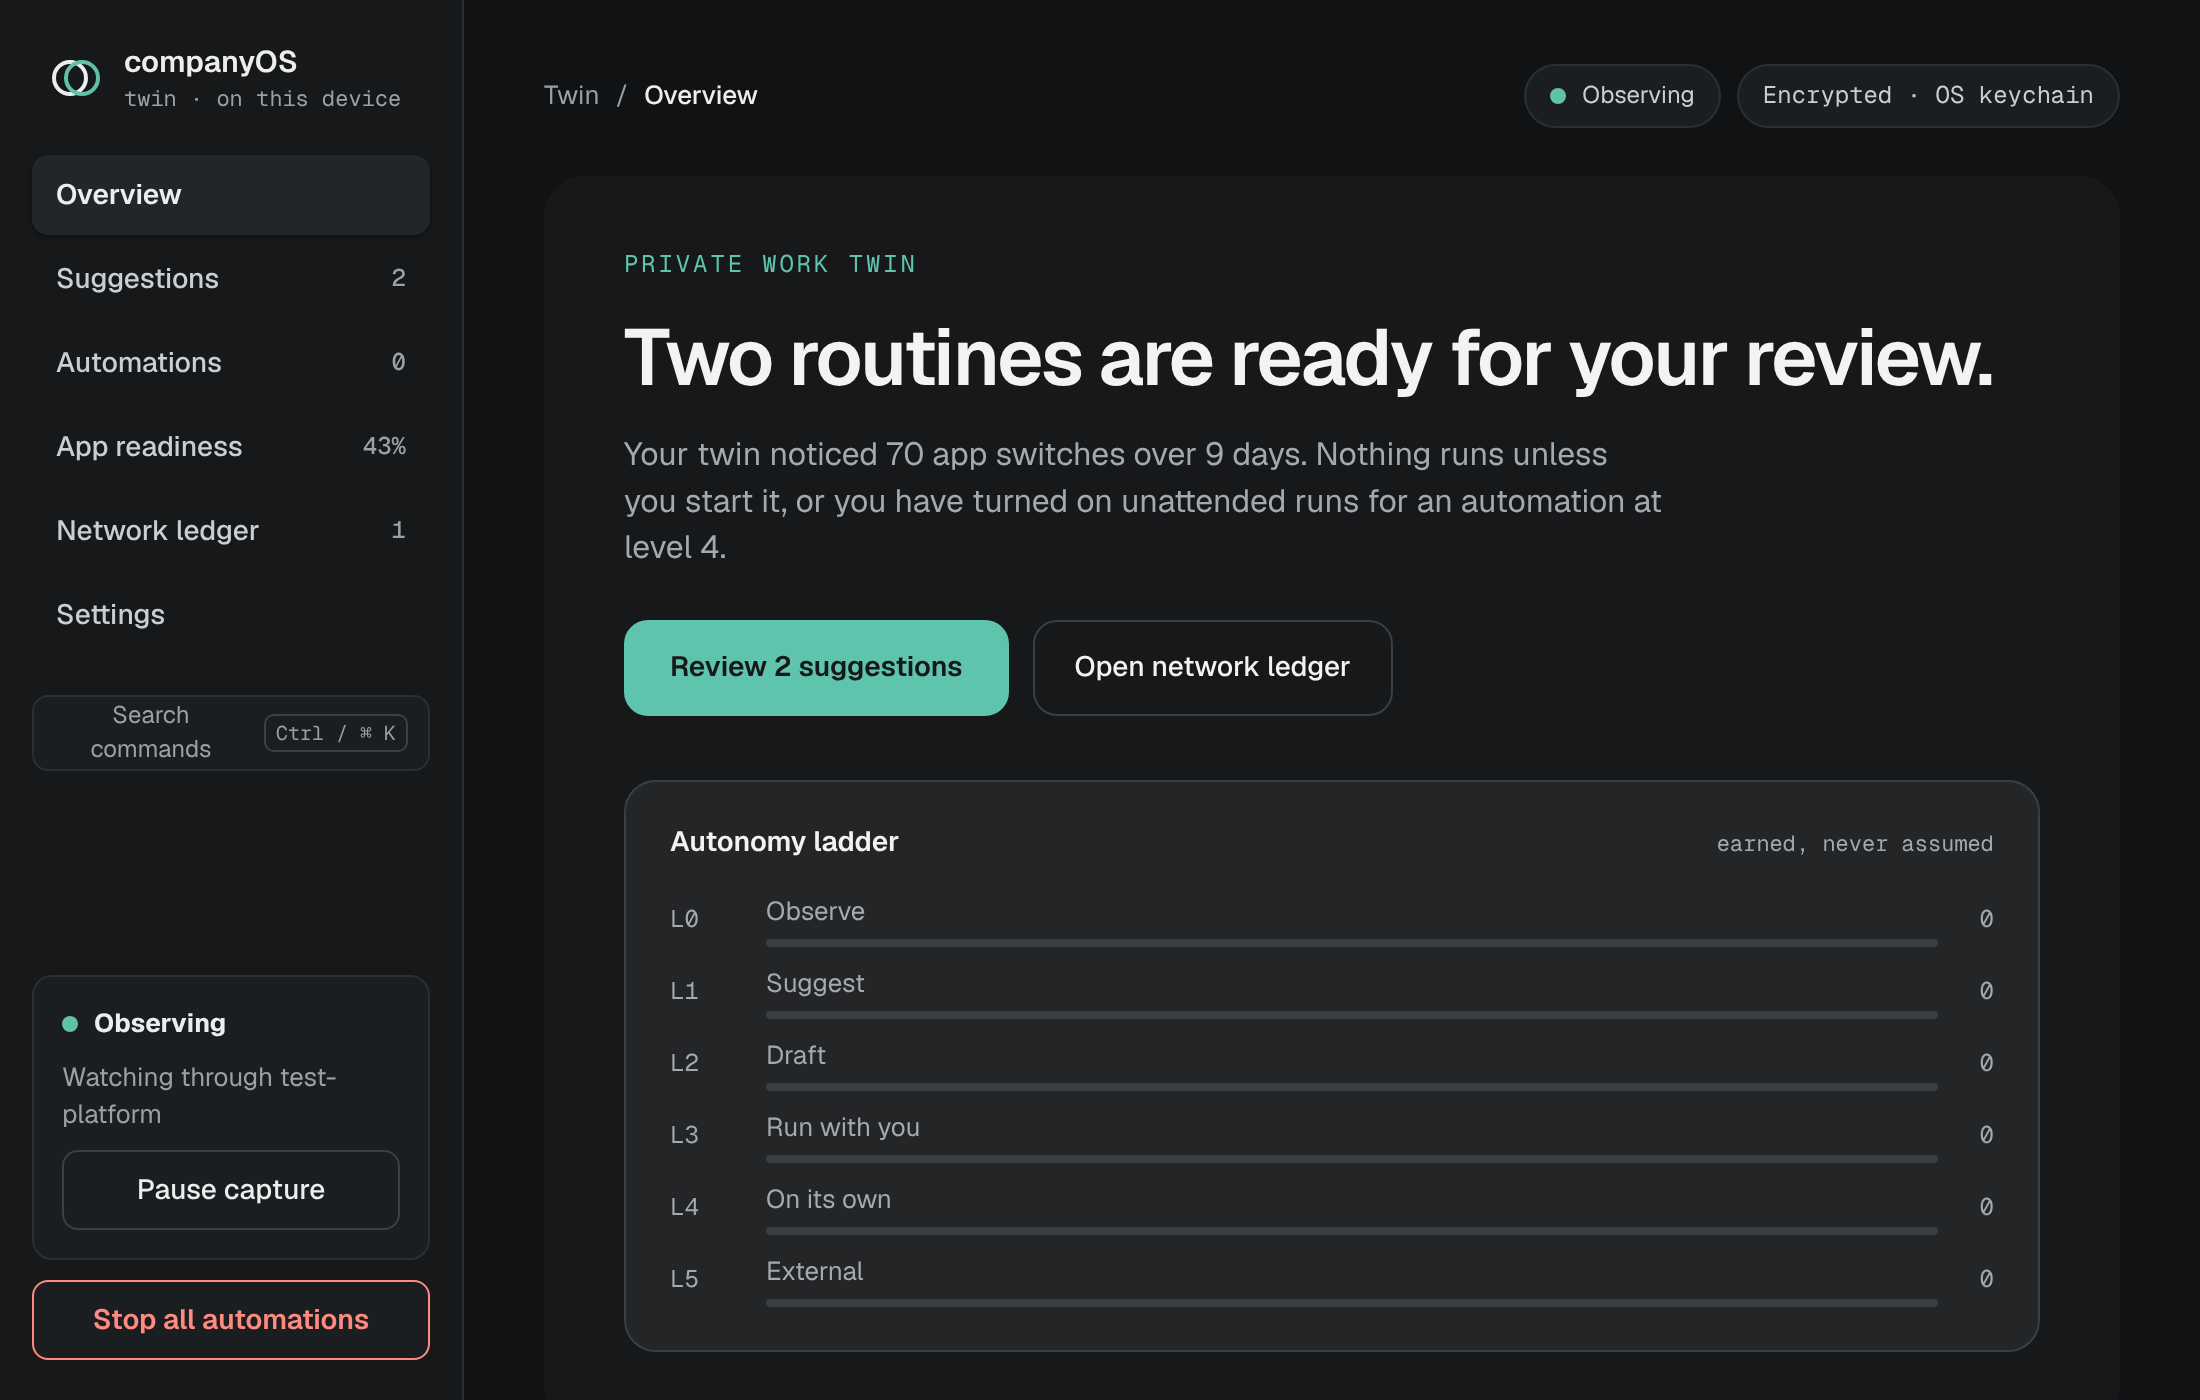
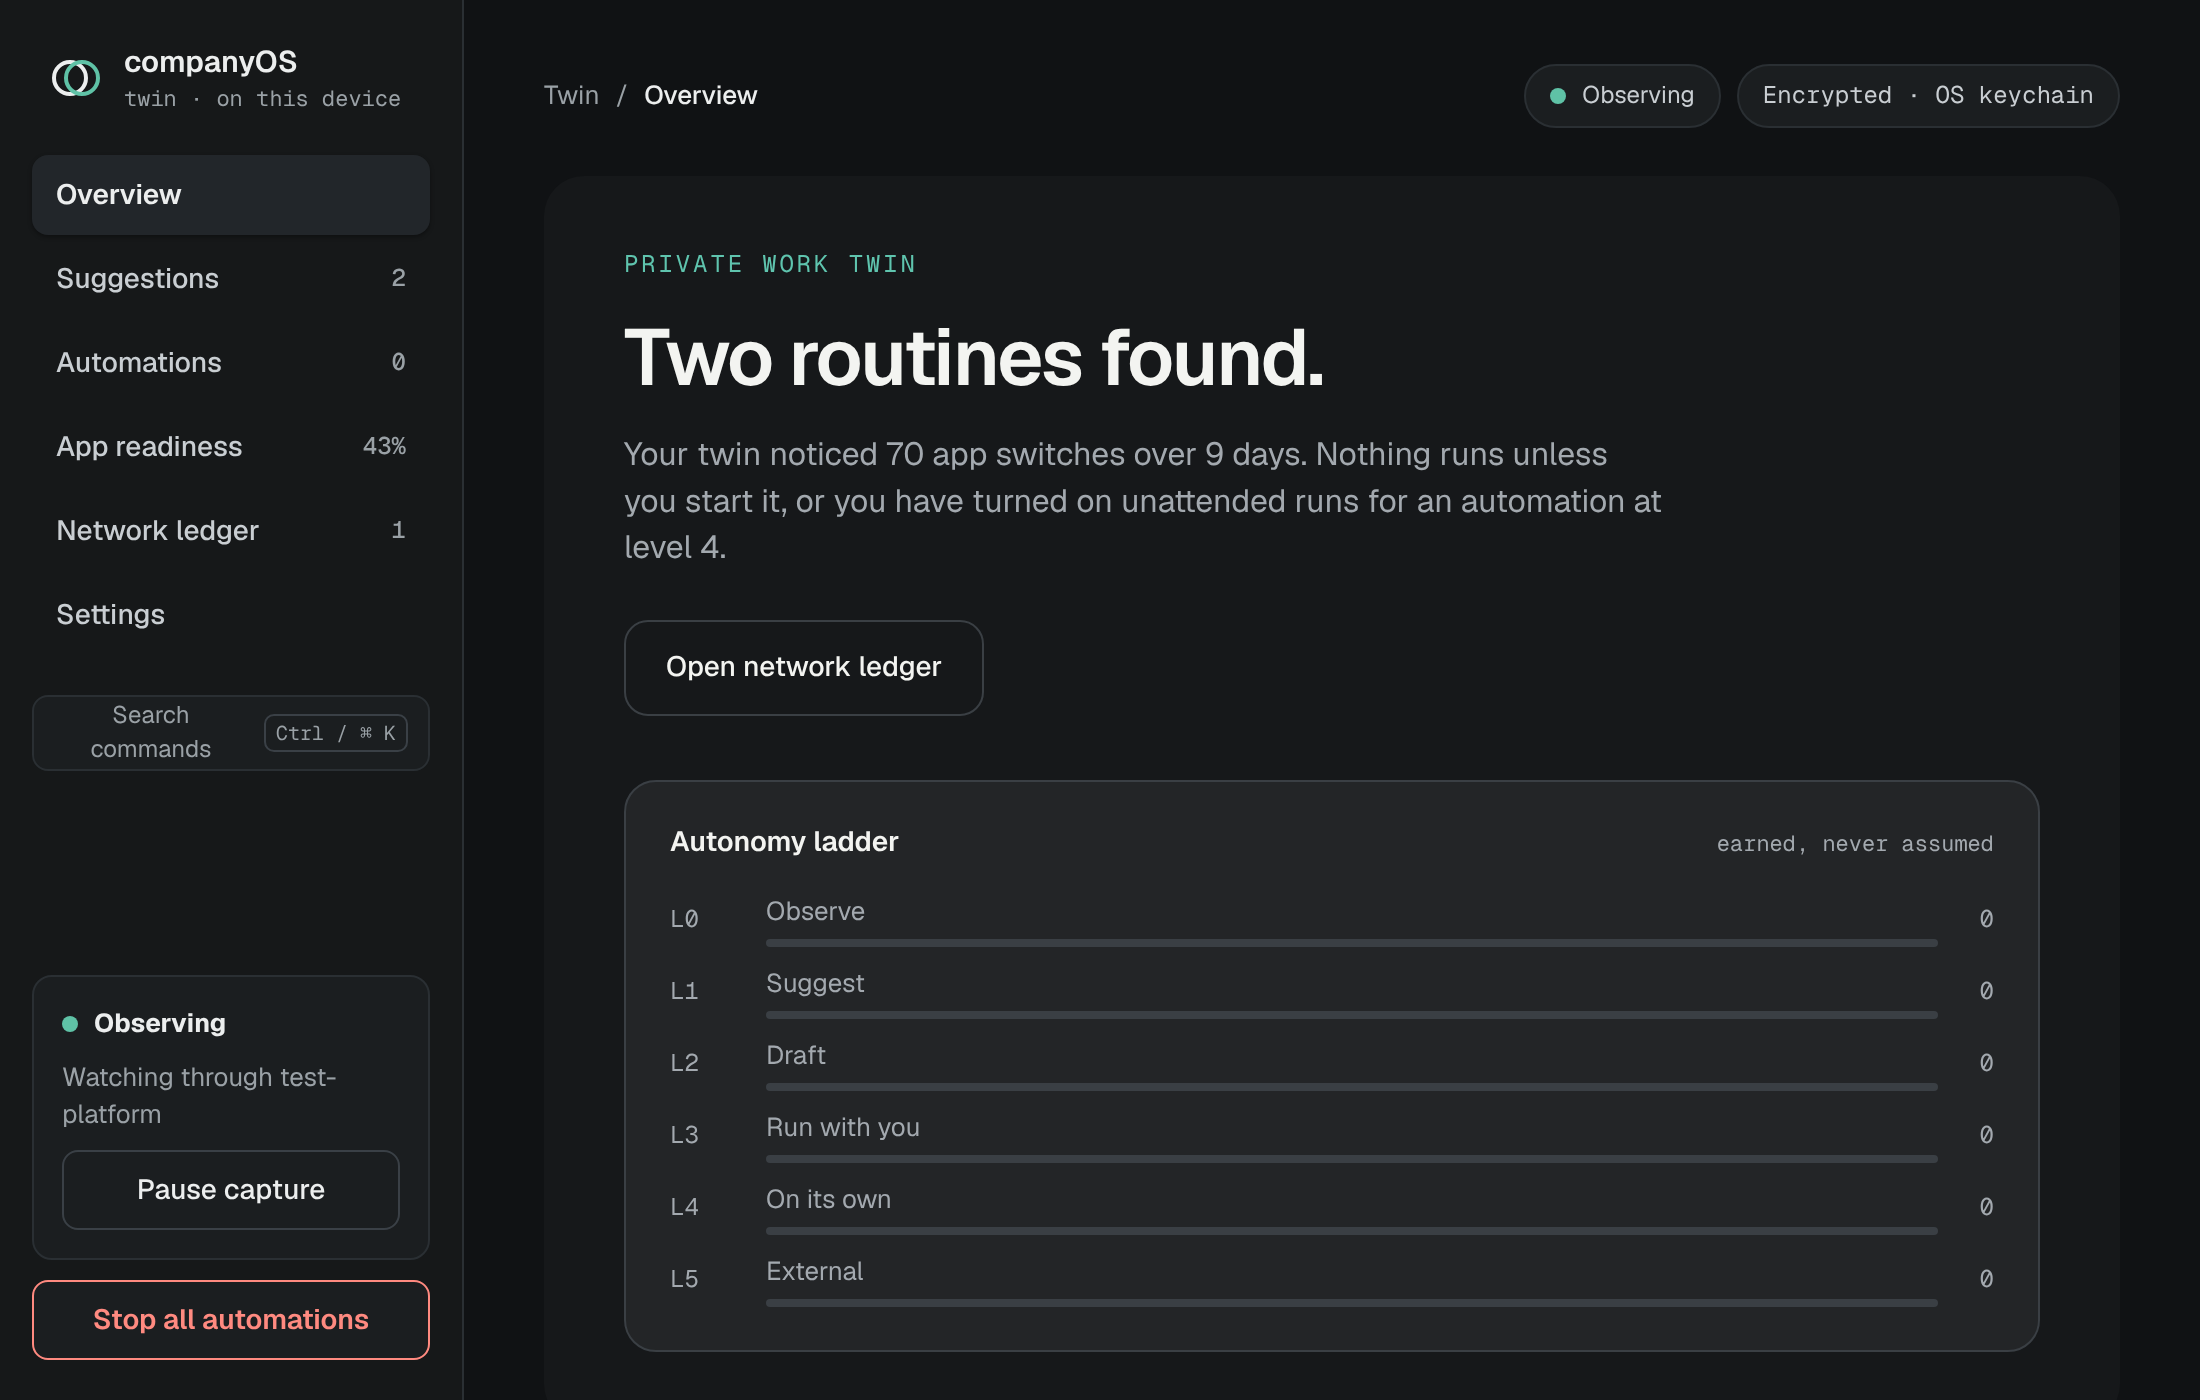
Keep the overview to statistics and remove the review actions
The overview no longer lists suggestions to accept or dismiss, and it
has no review buttons or review tags. The hero title now counts the
routines found ("Two routines found."). The stat tile that said "Waiting
for you" is now "Pending", without a tag. The learning steps say
"Decide" where they said "Review", and the strong-pattern note no longer
says "offered for review".

The overview keeps the statistic tiles, the autonomy ladder, the
automations list, the weekly rhythm, apps you use and the device panel.
Suggestions still accept and dismiss on their own page, so nothing is
lost. Nav still shows the suggestion count.

Removed with the list: the waiting panel, its routine cards and the app
chain, and the "Review suggestions" button on the empty automations
card. Model helpers the overview no longer calls (routineApps,
routineEvidence, lastSeenLabel, hoursBack) remain, with their tests.

Screenshots of the overview at 1100 by 700 are refreshed in
docs/screenshots/13-inch and on the docs site.

Claude-Session: https://claude.ai/code/session_019o9sMo7fg76ys9pWXQjmcJ

Changed region(s): [[0.2782, 0.43, 0.4636, 0.5221], [0.4945, 0.215, 0.8964, 0.2764], [0.4945, 0.4607, 0.6182, 0.4914]]

diff --git a/apps/desktop/src/renderer/views/overview.ts b/apps/desktop/src/renderer/views/overview.ts
@@ -1,26 +1,23 @@
-import type { AutomationView, DraftStep, SuggestionView, TwinStatus } from '@companyos/twin-core';
+import type { AutomationView, TwinStatus } from '@companyos/twin-core';
 import { h, type Child } from '../dom.js';
 import { button, emptyState, levelMeter } from '../components/ui.js';
 import { formatBytes, formatRate, percent, plural, titleCase, titleCaseSequence } from '../format.js';
 import { appsSummary, captureTitle, LEVEL_NAMES, levelLabel } from '../labels.js';
 import {
+  foundTitle,
   heroLede,
   ladderCounts,
-  lastSeenLabel,
   networkCallsThisWeek,
-  readyTitle,
   RHYTHM_DAYS,
   RHYTHM_HOURS,
   rhythmLevels,
-  routineApps,
-  routineEvidence,
 } from '../overview-model.js';
-import { call, go, pending, state } from '../store.js';
+import { call, go, state } from '../store.js';
 
-const APP_PATTERN_REVIEW_THRESHOLD = 0.8;
+const APP_PATTERN_STRONG_THRESHOLD = 0.8;
 
 export function overviewView(status: TwinStatus): HTMLElement {
-  const { stats, automations, suggestions, network } = status;
+  const { stats, automations, network } = status;
   return h(
     'div',
     { class: 'ov-page', 'data-testid': 'view-overview' },
@@ -34,8 +31,7 @@ export function overviewView(status: TwinStatus): HTMLElement {
         'div',
         { class: 'ov-main' },
         stats.routinesLearned === 0 ? learningPanel(status) : undefined,
-        waitingPanel(suggestions),
-        routinesPanel(automations, suggestions.length),
+        routinesPanel(automations),
         usagePanel(status.usage),
       ),
       h(
@@ -75,14 +71,6 @@ function overviewTop(status: TwinStatus): HTMLElement {
 }
 
 function overviewHero(status: TwinStatus): HTMLElement {
-  const { suggestions, automations } = status;
-  const primary =
-    suggestions.length > 0
-      ? button(`Review ${plural(suggestions.length, 'suggestion')}`, { variant: 'primary', onClick: () => go('#/suggestions') }, 'ov-cta')
-      : automations.length > 0
-        ? button('View automations', { variant: 'primary', onClick: () => go('#/automations') }, 'ov-cta')
-        : undefined;
-
   return h(
     'header',
     { class: 'ov-hero' },
@@ -90,14 +78,13 @@ function overviewHero(status: TwinStatus): HTMLElement {
       'div',
       { class: 'ov-hero-copy' },
       h('span', { class: 'ov-eyebrow' }, 'PRIVATE WORK TWIN'),
-      h('h1', { class: 'ov-title' }, readyTitle(suggestions.length)),
+      h('h1', { class: 'ov-title' }, foundTitle(status.suggestions.length)),
       h('p', { class: 'ov-lede' }, heroLede(status.recordedFocusEvents, status.stats.observedDays)),
       h('div', { class: 'ov-hero-actions' },
-        primary,
         button('Open network ledger', { onClick: () => go('#/ledger') }, 'ov-cta-quiet'),
       ),
     ),
-    ladderCard(automations),
+    ladderCard(status.automations),
   );
 }
 
@@ -139,12 +126,7 @@ function statsRow(status: TwinStatus): HTMLElement {
     'section',
     { class: 'ov-stats', 'data-testid': 'overview-stats', 'aria-label': 'Summary' },
     statCard({ label: 'Routines learned', value: String(stats.routinesLearned), note: 'Detected and not dismissed, or accepted' }),
-    statCard({
-      label: 'Waiting for you',
-      value: String(stats.waiting),
-      note: 'Suggestions and drafts',
-      tag: stats.waiting > 0 ? { text: 'review', review: true } : undefined,
-    }),
+    statCard({ label: 'Pending', value: String(stats.waiting), note: 'Suggestions and drafts' }),
     statCard({ label: 'Unattended ready', value: String(stats.unattendedReady), note: 'Level 4 · local and reversible', tag: { text: 'gated' } }),
   );
 }
@@ -154,7 +136,7 @@ interface StatCard {
   value: string;
   unit?: string;
   note: string;
-  tag?: { text: string; review?: boolean };
+  tag?: { text: string };
 }
 
 function statCard(card: StatCard): HTMLElement {
@@ -165,7 +147,7 @@ function statCard(card: StatCard): HTMLElement {
       'div',
       { class: 'ov-stat-head' },
       h('span', { class: 'ov-stat-label' }, card.label),
-      card.tag ? h('span', { class: card.tag.review ? 'ov-stat-tag is-review' : 'ov-stat-tag' }, card.tag.text) : undefined,
+      card.tag ? h('span', { class: 'ov-stat-tag' }, card.tag.text) : undefined,
     ),
     h(
       'div',
@@ -177,76 +159,8 @@ function statCard(card: StatCard): HTMLElement {
   );
 }
 
-function waitingPanel(suggestions: readonly SuggestionView[]): HTMLElement {
-  return h(
-    'section',
-    { class: 'ov-card', 'data-testid': 'overview-waiting', 'aria-labelledby': 'waiting-title' },
-    h(
-      'div',
-      { class: 'ov-card-head' },
-      h('h2', { class: 'ov-card-title', id: 'waiting-title' }, 'Waiting for you'),
-      h('span', { class: 'ov-card-note' }, 'Patterns your twin found. Accepting one creates a draft — it runs nothing.'),
-    ),
-    suggestions.length === 0
-      ? emptyState('Nothing to review yet.', 'The twin needs the same sequence on at least three different days to notice a routine.')
-      : h('div', { class: 'ov-routine-list' }, ...suggestions.map(routineCard)),
-  );
-}
-
-function routineCard(item: SuggestionView): HTMLElement {
-  const acceptKey = `accept:${item.routineId}`;
-  const dismissKey = `dismiss:${item.routineId}`;
-  const busy = pending(acceptKey) || pending(dismissKey);
-  return h(
-    'article',
-    { class: 'ov-routine', 'data-testid': 'overview-suggestion' },
-    h(
-      'div',
-      { class: 'ov-routine-copy' },
-      h('h3', { class: 'ov-routine-name' }, item.name),
-      h('p', { class: 'ov-routine-evidence' }, routineEvidence(item.support, item.days, item.minutesPerWeek)),
-    ),
-    appChain(item.drafted),
-    h(
-      'div',
-      { class: 'ov-routine-foot' },
-      h('span', { class: 'ov-when mono' }, lastSeenLabel(item.lastSeenAt)),
-      h('span', { class: 'ov-grow', 'aria-hidden': 'true' }),
-      button('Not useful', {
-        variant: 'ghost',
-        disabled: busy,
-        onClick: () => void call(dismissKey, twin => twin.dismissRoutine(item.routineId)),
-      }),
-      button('Accept as draft', {
-        variant: 'primary',
-        disabled: busy,
-        onClick: () => void call(acceptKey, twin => twin.acceptRoutine(item.routineId)),
-      }),
-    ),
-  );
-}
-
-function appChain(steps: readonly DraftStep[]): HTMLElement {
-  return h(
-    'div',
-    { class: 'ov-apps' },
-    ...routineApps(steps).flatMap((step, index) => [
-      index > 0 ? h('span', { class: 'ov-app-arrow', 'aria-hidden': 'true' }, '→') : undefined,
-      h(
-        'span',
-        { class: 'ov-app' },
-        h('span', { class: 'ov-app-mark', 'aria-hidden': 'true' }, step.app.charAt(0).toUpperCase()),
-        h('span', null, titleCase(step.app)),
-        step.alternatives > 0
-          ? h('span', { class: 'ov-app-more', title: `${plural(step.alternatives, 'other app')} seen here` }, `+${step.alternatives}`)
-          : undefined,
-      ),
-    ]),
-  );
-}
-
-function routinesPanel(views: readonly AutomationView[], suggestionCount: number): HTMLElement {
-  if (views.length === 0) return noAutomationsCard(suggestionCount);
+function routinesPanel(views: readonly AutomationView[]): HTMLElement {
+  if (views.length === 0) return noAutomationsCard();
   return h(
     'section',
     { class: 'ov-card', 'data-testid': 'overview-routines', 'aria-labelledby': 'routines-title' },
@@ -260,7 +174,7 @@ function routinesPanel(views: readonly AutomationView[], suggestionCount: number
   );
 }
 
-function noAutomationsCard(suggestionCount: number): HTMLElement {
+function noAutomationsCard(): HTMLElement {
   return h(
     'section',
     { class: 'ov-card ov-empty-card', 'data-testid': 'overview-routines', 'aria-labelledby': 'auto-title' },
@@ -273,7 +187,6 @@ function noAutomationsCard(suggestionCount: number): HTMLElement {
     h(
       'div',
       { class: 'ov-empty-actions' },
-      suggestionCount > 0 ? button('Review suggestions', { onClick: () => go('#/suggestions') }) : undefined,
       h('a', { class: 'ov-link', href: '#/automations' }, 'How levels work →'),
     ),
   );
@@ -364,7 +277,7 @@ function learningPanel(status: TwinStatus): HTMLElement {
       { class: 'ov-steps' },
       learningStep('01', 'Capture', captureDetail, status.capture.state === 'capturing'),
       learningStep('02', 'Repeat', 'Follow your normal app sequence', false),
-      learningStep('03', 'Review', 'You decide what becomes an automation', false),
+      learningStep('03', 'Decide', 'You decide what becomes an automation', false),
     ),
   );
 }
@@ -398,7 +311,7 @@ function usagePanel(usage: TwinStatus['usage']): HTMLElement {
           h(
             'p',
             { class: 'muted small ov-usage-note' },
-            'This repetition-based learning score is not model confidence or task accuracy. A pattern is offered for review once it repeats on at least three different days. 80% or more is marked Strong. Mail, chat and other external steps still ask; unattended runs must pass each routine\'s promotion gate.',
+            'This repetition-based learning score is not model confidence or task accuracy. A pattern is offered once it repeats on at least three different days. 80% or more is marked Strong. Mail, chat and other external steps still ask; unattended runs must pass each routine\'s promotion gate.',
           ),
         ),
   );
@@ -407,7 +320,7 @@ function usagePanel(usage: TwinStatus['usage']): HTMLElement {
 function appLearningRow(app: TwinStatus['usage'][number]): HTMLElement {
   const score = Math.round(app.learningScore * 100);
   const hasPattern = app.patternCount > 0;
-  const strongPattern = app.learningScore >= APP_PATTERN_REVIEW_THRESHOLD;
+  const strongPattern = app.learningScore >= APP_PATTERN_STRONG_THRESHOLD;
   const evidence = hasPattern
     ? `${plural(app.patternSupport, 'observation')} across ${plural(app.patternDays, 'day')} · ${plural(app.patternCount, 'pattern')}`
     : 'No repeated workflow pattern yet';

diff --git a/apps/desktop/test/overview.test.ts b/apps/desktop/test/overview.test.ts
@@ -2,30 +2,30 @@ import type { DraftStep } from '@companyos/twin-core';
 import { describe, expect, it } from 'vitest';
 import { DAY_MS, handoffStateLabel, noticedPerWeek, summarySourceLabel, titleCase, titleCaseSequence } from '../src/renderer/format';
 import {
+  foundTitle,
   heroLede,
   hoursBack,
   ladderCounts,
   lastSeenLabel,
   networkCallsThisWeek,
-  readyTitle,
   rhythmLevels,
   routineApps,
   routineEvidence,
 } from '../src/renderer/overview-model';
 
-describe('readyTitle', () => {
-  it('says no new routines are ready when there are no suggestions', () => {
-    expect(readyTitle(0)).toBe('No new routines are ready for your review.');
+describe('foundTitle', () => {
+  it('says no routines are found when there are none', () => {
+    expect(foundTitle(0)).toBe('No routines found yet.');
   });
 
   it('uses the singular for one routine', () => {
-    expect(readyTitle(1)).toBe('One routine is ready for your review.');
+    expect(foundTitle(1)).toBe('One routine found.');
   });
 
   it('spells out a small count and keeps the digits for a large one', () => {
-    expect(readyTitle(2)).toBe('Two routines are ready for your review.');
-    expect(readyTitle(3)).toBe('Three routines are ready for your review.');
-    expect(readyTitle(13)).toBe('13 routines are ready for your review.');
+    expect(foundTitle(2)).toBe('Two routines found.');
+    expect(foundTitle(3)).toBe('Three routines found.');
+    expect(foundTitle(13)).toBe('13 routines found.');
   });
 });
 

diff --git a/apps/desktop/src/renderer/overview-model.ts b/apps/desktop/src/renderer/overview-model.ts
@@ -8,12 +8,12 @@ export const RHYTHM_DAYS: readonly string[] = ['Mon', 'Tue', 'Wed', 'Thu', 'Fri'
 /** The hours the rhythm grid shows, one column each. */
 export const RHYTHM_HOURS: readonly number[] = [8, 9, 10, 11, 12, 13, 14, 15, 16, 17, 18];
 
-/** The hero title. It counts the suggestions waiting for the person's review. Drafts are counted by the waiting card. */
-export function readyTitle(waiting: number): string {
-  if (waiting <= 0) return 'No new routines are ready for your review.';
-  if (waiting === 1) return 'One routine is ready for your review.';
-  const count = waiting < COUNT_WORDS.length ? COUNT_WORDS[waiting] : String(waiting);
-  return `${count} routines are ready for your review.`;
+/** The hero title. It counts the routines the twin has found and not yet accepted or dismissed. */
+export function foundTitle(found: number): string {
+  if (found <= 0) return 'No routines found yet.';
+  if (found === 1) return 'One routine found.';
+  const count = found < COUNT_WORDS.length ? COUNT_WORDS[found] : String(found);
+  return `${count} routines found.`;
 }
 
 /** The last sentence of the hero lede. It says when a run can start, and that is all it says. */

diff --git a/apps/desktop/src/renderer/styles/overview.css b/apps/desktop/src/renderer/styles/overview.css
@@ -271,11 +271,6 @@
   white-space: nowrap;
 }
 
-.ov-stat-tag.is-review {
-  background: var(--warn-bg);
-  color: var(--warn-ink);
-}
-
 .ov-stat-value-row {
   display: flex;
   align-items: baseline;
